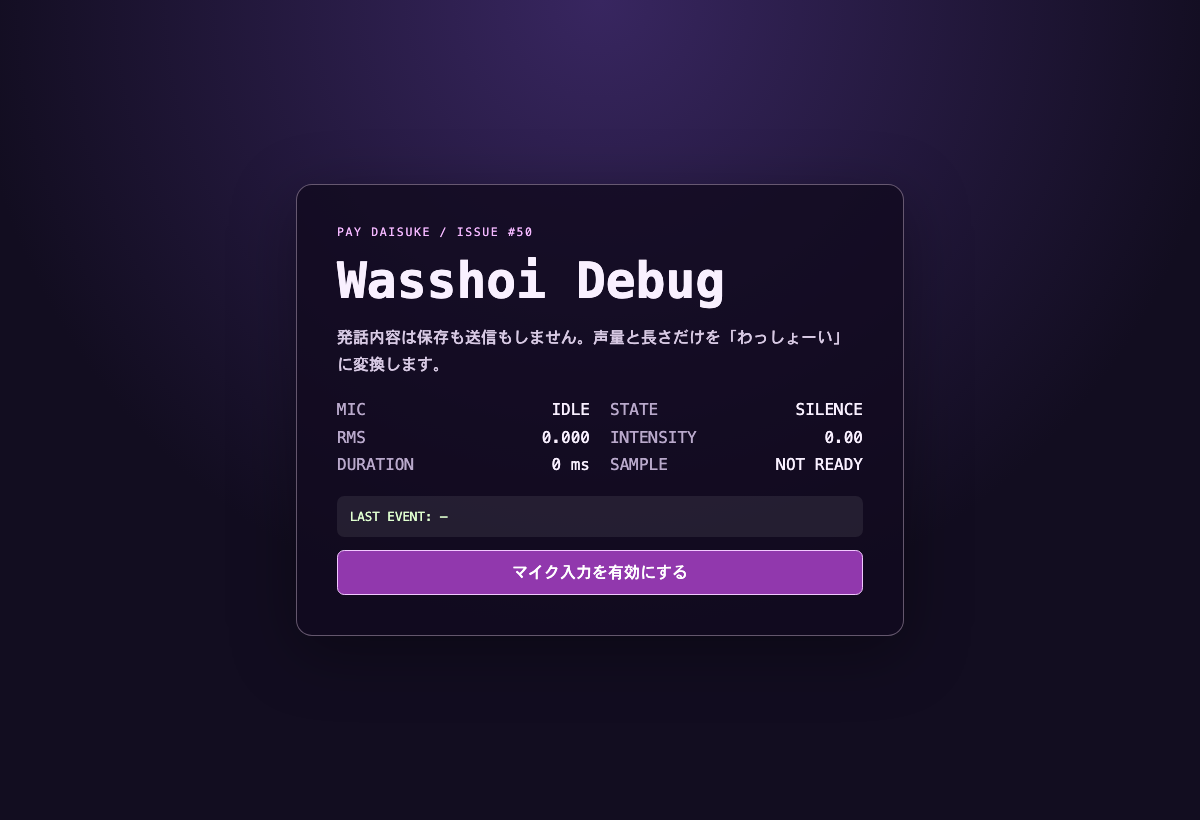
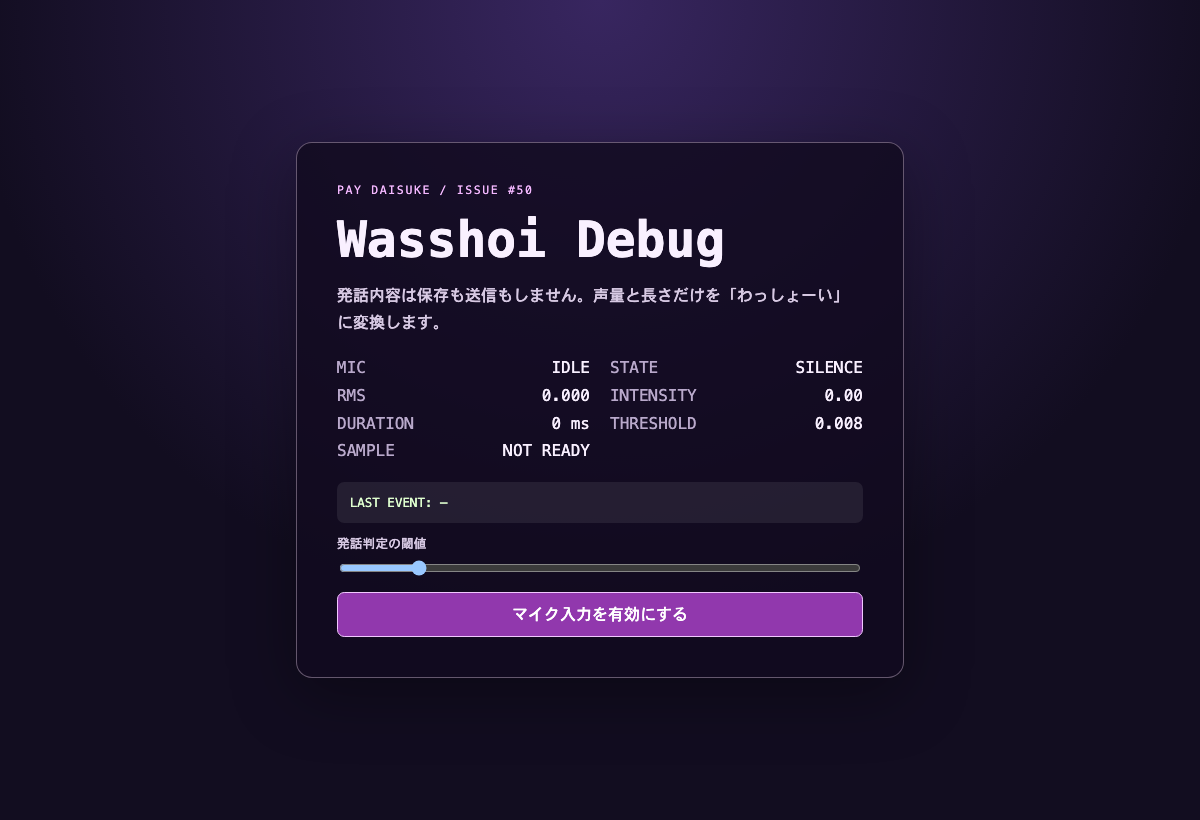
fix: play recorded wasshoi sample

Changed region(s): [[0.2775, 0.2744, 0.74, 0.5793], [0.2775, 0.6098, 0.74, 0.7927], [0.2467, 0.1524, 0.7708, 0.2439]]

diff --git a/src/ui/wasshoi-debug/WasshoiDebug.tsx b/src/ui/wasshoi-debug/WasshoiDebug.tsx
@@ -5,7 +5,11 @@ import {
   type WasshoiInputController,
   type WasshoiInputStatus,
 } from '@/input/wasshoi/wasshoi-input';
-import type { WasshoiDebugSnapshot, WasshoiEvent } from '@/input/wasshoi/types';
+import {
+  DEFAULT_VOICE_ACTIVITY_CONFIG,
+  type WasshoiDebugSnapshot,
+  type WasshoiEvent,
+} from '@/input/wasshoi/types';
 
 import styles from './WasshoiDebug.module.css';
 
@@ -13,24 +17,21 @@ import styles from './WasshoiDebug.module.css';
 export function WasshoiDebug(): React.JSX.Element {
   const [status, setStatus] = useState<WasshoiInputStatus>('idle');
   const [snapshot, setSnapshot] = useState<WasshoiDebugSnapshot | null>(null);
-  const [sampleUrl, setSampleUrl] = useState<string | null>(null);
+  const [sampleReady, setSampleReady] = useState(false);
   const [recording, setRecording] = useState(false);
   const [running, setRunning] = useState(false);
   const [error, setError] = useState<string | null>(null);
   const controllerRef = useRef<WasshoiInputController | null>(null);
-  const audioRef = useRef<HTMLAudioElement | null>(null);
-  const sampleUrlRef = useRef<string | null>(null);
+  const [threshold, setThreshold] = useState(DEFAULT_VOICE_ACTIVITY_CONFIG.threshold);
 
-  const play = useCallback((event: WasshoiEvent): void => {
-    const audio = audioRef.current;
-    if (audio === null || sampleUrlRef.current === null) return;
-    audio.pause();
-    audio.currentTime = 0;
-    audio.volume = 0.15 + event.intensity * 0.85;
-    // 長い発話ほどゆっくり、短い発話ほど速くする。内容は一切反映しない。
-    audio.playbackRate = Math.min(1.6, Math.max(0.65, 700 / Math.max(250, event.durationMs)));
-    void audio.play().catch(() => setError('わっしょーいを再生できませんでした'));
-  }, []);
+  const play = useCallback(
+    (event: WasshoiEvent): void => {
+      if (!controllerRef.current?.playRecordedSample(event)) {
+        if (sampleReady) setError('わっしょーいを再生できませんでした');
+      }
+    },
+    [sampleReady],
+  );
 
   const onEvent = useCallback(
     (event: WasshoiEvent): void => {
@@ -53,14 +54,9 @@ export function WasshoiDebug(): React.JSX.Element {
     setRunning(false);
   }, []);
 
-  useEffect(() => {
-    sampleUrlRef.current = sampleUrl;
-  }, [sampleUrl]);
-
   useEffect(
     () => () => {
       stop();
-      if (sampleUrlRef.current !== null) URL.revokeObjectURL(sampleUrlRef.current);
     },
     [stop],
   );
@@ -81,13 +77,14 @@ export function WasshoiDebug(): React.JSX.Element {
       const controller = await attachWasshoiInput(onEvent, {
         onStatusChange: handleStatusChange,
         onDebug: setSnapshot,
+        config: { threshold },
       });
       controllerRef.current = controller;
       setRunning(true);
     } catch (reason) {
       setError(reason instanceof Error ? reason.message : String(reason));
     }
-  }, [handleStatusChange, onEvent]);
+  }, [handleStatusChange, onEvent, threshold]);
 
   const toggleRecording = useCallback(async (): Promise<void> => {
     const controller = controllerRef.current;
@@ -99,12 +96,8 @@ export function WasshoiDebug(): React.JSX.Element {
         setRecording(true);
         return;
       }
-      const sample = await controller.stopRecording();
-      const nextUrl = URL.createObjectURL(sample);
-      setSampleUrl((previous) => {
-        if (previous !== null) URL.revokeObjectURL(previous);
-        return nextUrl;
-      });
+      await controller.stopRecording();
+      setSampleReady(true);
       setRecording(false);
     } catch (reason) {
       setError(reason instanceof Error ? reason.message : String(reason));
@@ -131,7 +124,8 @@ export function WasshoiDebug(): React.JSX.Element {
           <Row label="RMS" value={(snapshot?.rms ?? 0).toFixed(3)} />
           <Row label="INTENSITY" value={(snapshot?.intensity ?? 0).toFixed(2)} />
           <Row label="DURATION" value={`${Math.round(snapshot?.durationMs ?? 0)} ms`} />
-          <Row label="SAMPLE" value={sampleUrl === null ? 'NOT READY' : 'READY'} />
+          <Row label="THRESHOLD" value={threshold.toFixed(3)} />
+          <Row label="SAMPLE" value={sampleReady ? 'READY' : 'NOT READY'} />
         </dl>
 
         <output className={styles.event} aria-label="最後のWasshoiEvent">
@@ -141,6 +135,20 @@ export function WasshoiDebug(): React.JSX.Element {
         </output>
 
         {error !== null && <p className={styles.error}>{error}</p>}
+
+        {!running && (
+          <label className={styles.threshold}>
+            発話判定の閾値
+            <input
+              type="range"
+              min="0.001"
+              max="0.05"
+              step="0.001"
+              value={threshold}
+              onChange={(event) => setThreshold(Number(event.target.value))}
+            />
+          </label>
+        )}
 
         {!running ? (
           <button type="button" className={styles.button} onClick={() => void start()}>
@@ -154,7 +162,7 @@ export function WasshoiDebug(): React.JSX.Element {
             <button
               type="button"
               className={styles.button}
-              disabled={sampleUrl === null}
+              disabled={!sampleReady}
               onClick={preview}
             >
               わっしょーいを試聴する
@@ -164,9 +172,6 @@ export function WasshoiDebug(): React.JSX.Element {
             </button>
           </>
         )}
-        {/* ユーザーがこの画面で録音した効果音であり、字幕トラックを持たない。 */}
-        {/* oxlint-disable-next-line jsx-a11y/media-has-caption */}
-        <audio ref={audioRef} src={sampleUrl ?? undefined} />
       </section>
     </main>
   );

diff --git a/src/input/wasshoi/wasshoi-input.ts b/src/input/wasshoi/wasshoi-input.ts
@@ -17,6 +17,8 @@ export interface WasshoiInputController {
   startRecording(): void;
   stopRecording(): Promise<Blob>;
   isRecording(): boolean;
+  /** 録音済みの本人Sampleを、許可済みのAudioContextから再生する。 */
+  playRecordedSample(event: WasshoiEvent): boolean;
   stop(): void;
 }
 
@@ -72,6 +74,7 @@ export async function attachWasshoiInput(
   let timerId: number | null = null;
   let recorder: MediaRecorder | null = null;
   let recordingResult: Promise<Blob> | null = null;
+  let recordedSample: AudioBuffer | null = null;
   let stopped = false;
   let lastEvent: WasshoiEvent | null = null;
 
@@ -167,9 +170,30 @@ export async function attachWasshoiInput(
         throw new Error('録音を開始していません');
       }
       recorder.stop();
-      return recordingResult;
+      const blob = await recordingResult;
+      // audio要素のplay()はタイマー起点だと自動再生制限に止められることがある。
+      // マイク許可時に開始済みのAudioContextへデコードしておけば、発話終了時にも
+      // 確実に「わっしょーい」を鳴らせる。
+      recordedSample = await context.decodeAudioData(await blob.arrayBuffer());
+      return blob;
     },
     isRecording: () => recorder?.state === 'recording',
+    playRecordedSample(event) {
+      if (stopped || recordedSample === null || context.state !== 'running') return false;
+      const sourceNode = context.createBufferSource();
+      const gainNode = context.createGain();
+      sourceNode.buffer = recordedSample;
+      gainNode.gain.value = 0.15 + event.intensity * 0.85;
+      // 長い発話ほどゆっくり、短い発話ほど速くする。内容は一切反映しない。
+      sourceNode.playbackRate.value = Math.min(
+        1.6,
+        Math.max(0.65, 700 / Math.max(250, event.durationMs)),
+      );
+      sourceNode.connect(gainNode);
+      gainNode.connect(context.destination);
+      sourceNode.start();
+      return true;
+    },
     stop: () => stop(),
   };
 }

diff --git a/src/input/wasshoi/types.ts b/src/input/wasshoi/types.ts
@@ -19,7 +19,9 @@ export interface VoiceActivityConfig {
 }
 
 export const DEFAULT_VOICE_ACTIVITY_CONFIG: VoiceActivityConfig = {
-  threshold: 0.02,
+  // 一般的な内蔵マイクの通常発話は0.01前後になることがあるため、まずは小さめにする。
+  // Debug画面で実測RMSを見ながら上げ、環境ノイズによる誤検出を抑える。
+  threshold: 0.008,
   hangoverMs: 300,
   maxDurationMs: 10_000,
 };

diff --git a/src/ui/wasshoi-debug/WasshoiDebug.module.css b/src/ui/wasshoi-debug/WasshoiDebug.module.css
@@ -82,6 +82,13 @@ h1 {
   cursor: not-allowed;
   opacity: 0.45;
 }
+.threshold {
+  display: flex;
+  flex-direction: column;
+  gap: 0.45rem;
+  color: #d7c9e3;
+  font-size: 0.8rem;
+}
 .error {
   color: #ffafb8;
 }

diff --git a/src/ui/wasshoi-debug/WasshoiDebug.test.tsx b/src/ui/wasshoi-debug/WasshoiDebug.test.tsx
@@ -13,6 +13,7 @@ const controller: WasshoiInputController = {
   startRecording,
   stopRecording,
   isRecording: () => false,
+  playRecordedSample: () => true,
   stop,
 };
 
